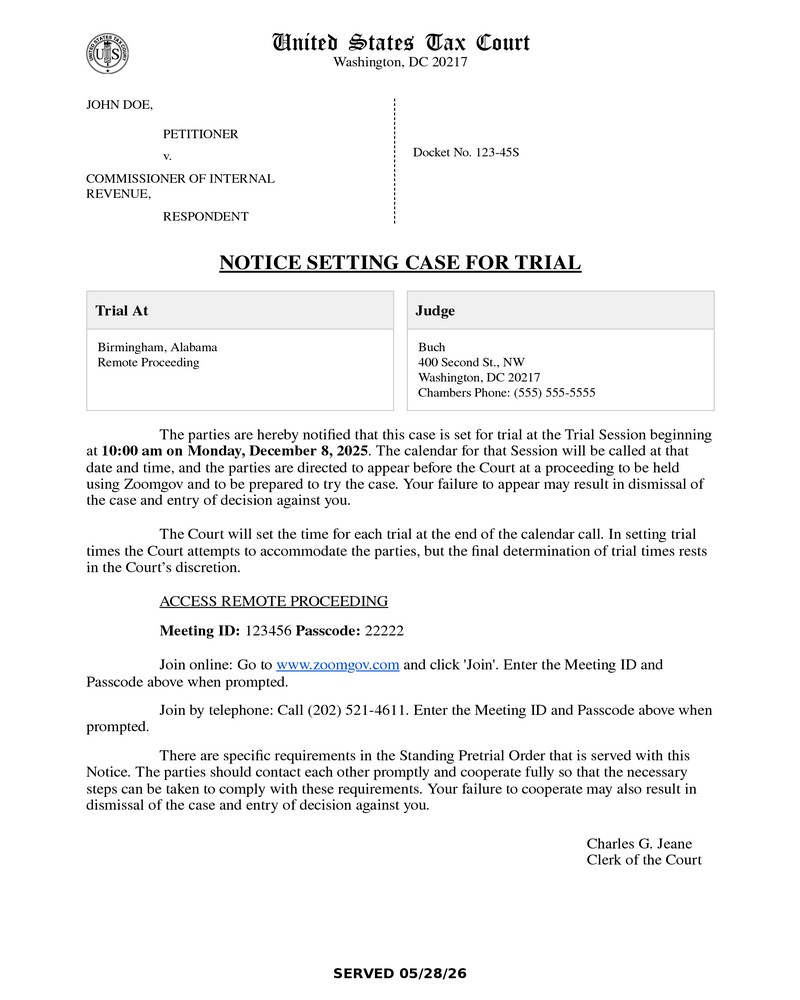
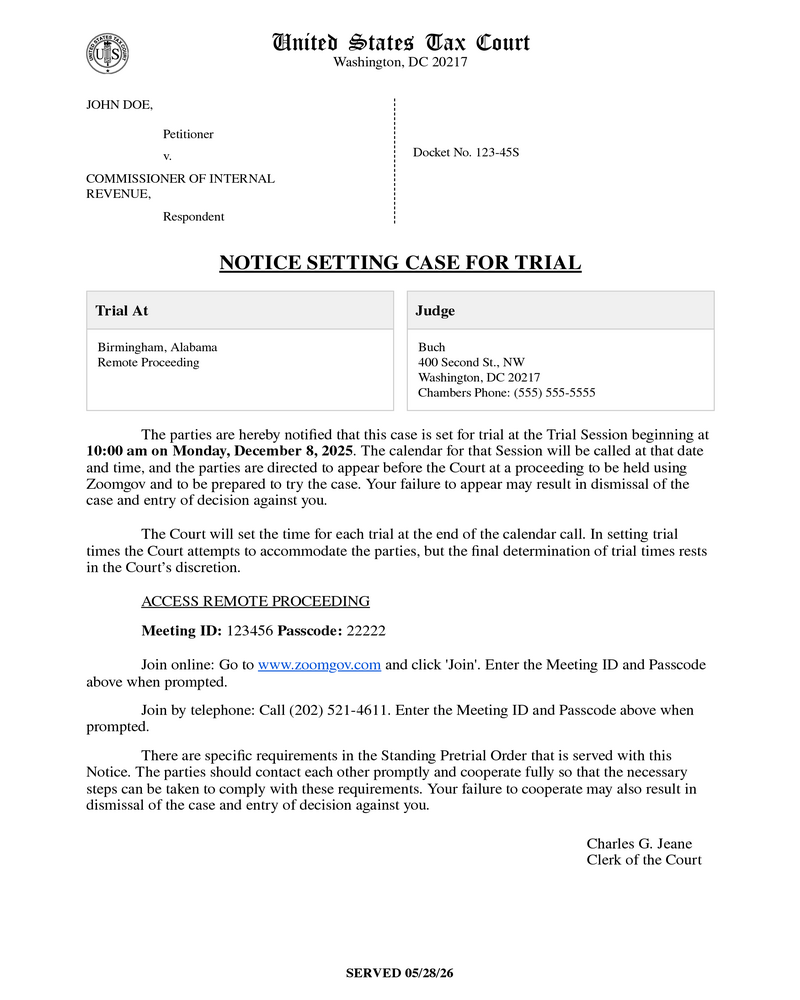
10076: update in person pdf spacing

diff --git a/shared/src/business/utilities/pdfGenerator/components/NoticeSettingCaseForTrialDocketHeader.tsx b/shared/src/business/utilities/pdfGenerator/components/NoticeSettingCaseForTrialDocketHeader.tsx
@@ -13,14 +13,14 @@ export const NoticeSettingCaseForTrialDocketHeader = ({
     <div className="order-docket-header">
       <div id="caption">
         <div id="caption-title">{caseTitle.toUpperCase()},</div>
-        <div id="caption-extension">{caseCaptionExtension.toUpperCase()}</div>
+        <div id="caption-extension">{caseCaptionExtension}</div>
         <div id="caption-v">v.</div>
         <div id="caption-commissioner">
           COMMISSIONER OF INTERNAL
           <br />
           REVENUE,
         </div>
-        <div id="caption-respondent">RESPONDENT</div>
+        <div id="caption-respondent">Respondent</div>
       </div>
       <div id="docket-number">Docket No. {docketNumberWithSuffix}</div>
       <div className="clear"></div>

diff --git a/shared/src/business/utilities/htmlGenerator/documents/notice-of-trial-issued.scss b/shared/src/business/utilities/htmlGenerator/documents/notice-of-trial-issued.scss
@@ -50,10 +50,16 @@ body:has(#notice-of-trial-pdf) {
         line-height: 10pt;
       }
 
+      #caption-extension,
+      #caption-v,
+      #caption-respondent {
+        padding-left: 56px;
+      }
+
       #caption-extension {
-        line-height: 10pt;
         margin-top: 17px;
         margin-bottom: 0;
+        line-height: 10pt;
       }
 
       #caption-v,
@@ -141,7 +147,7 @@ body:has(#notice-of-trial-pdf) {
 
     .notice-body-indent {
       margin-bottom: 17pt;
-      text-indent: 56pt;
+      text-indent: 56px;
     }
 
     #notice-clerk-signature {
